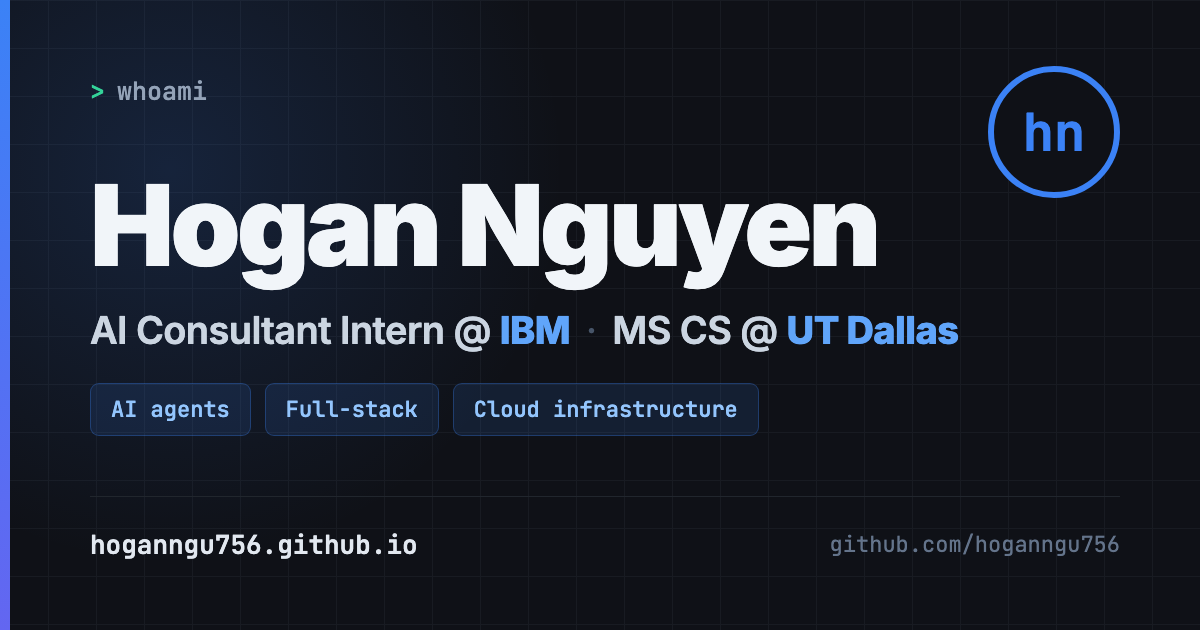
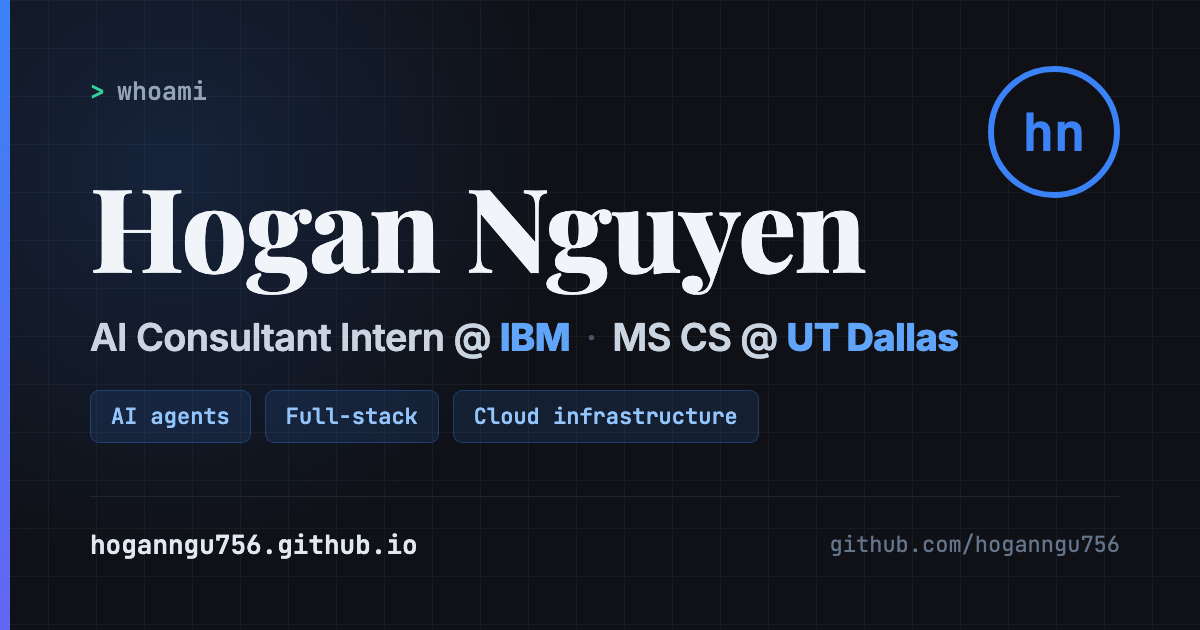
changed font + font size

Changed region(s): [[0.0617, 0.2714, 0.8017, 0.573], [0.0617, 0.6032, 0.6475, 0.7238]]

diff --git a/src/components/Experience.js b/src/components/Experience.js
@@ -16,7 +16,7 @@ const Experience = () => (
         <Reveal key={`${exp.company}-${exp.title}`} delay={idx * 120}>
           <div className="group p-6 rounded-xl bg-lightCard dark:bg-darkCard border border-lightBorder dark:border-darkBorder border-l-4 border-l-blue-500 hover:border-slate-300 dark:hover:border-slate-700 transition-all duration-300 hover:shadow-lg dark:hover:shadow-blue-900/10">
             <div className="flex flex-col sm:flex-row sm:items-center justify-between gap-1 mb-2">
-              <h3 className="text-base font-bold text-slate-900 dark:text-slate-100 group-hover:text-blue-600 dark:group-hover:text-blue-400 transition-colors">
+              <h3 className="font-display text-lg font-bold text-slate-900 dark:text-slate-100 group-hover:text-blue-600 dark:group-hover:text-blue-400 transition-colors">
                 {exp.title}
               </h3>
               <span className="font-mono text-xs font-medium text-slate-500 dark:text-slate-400 bg-slate-100 dark:bg-slate-800/80 px-2.5 py-1 rounded-md self-start sm:self-auto">
@@ -24,7 +24,7 @@ const Experience = () => (
               </span>
             </div>
 
-            <p className="text-xs sm:text-sm font-semibold text-slate-700 dark:text-slate-300 mb-4">
+            <p className="text-sm font-semibold text-slate-700 dark:text-slate-300 mb-4">
               {exp.company}{' '}
               <span className="font-normal text-slate-500 dark:text-slate-400">· {exp.location}</span>
             </p>
@@ -33,10 +33,10 @@ const Experience = () => (
               {exp.bullets.map((bullet, i) => (
                 <li
                   key={i}
-                  className="text-xs sm:text-sm text-slate-600 dark:text-slate-400 leading-relaxed flex items-start gap-2.5"
+                  className="text-sm sm:text-base text-slate-600 dark:text-slate-400 leading-relaxed flex items-start gap-2.5"
                 >
                   <span
-                    className="text-blue-500 dark:text-blue-400 mt-1 flex-shrink-0 text-xs"
+                    className="text-blue-500 dark:text-blue-400 mt-1 flex-shrink-0 text-sm"
                     aria-hidden="true"
                   >
                     ▹
@@ -64,12 +64,14 @@ const Experience = () => (
           <Reveal key={edu.degree} delay={idx * 100}>
             <div className="h-full p-5 rounded-xl bg-lightCard dark:bg-darkCard border border-lightBorder dark:border-darkBorder hover:border-blue-500/50 transition-colors">
               <div className="flex justify-between items-start mb-1 gap-2">
-                <p className="text-sm font-bold text-slate-900 dark:text-slate-100">{edu.degree}</p>
+                <p className="font-display text-base font-bold text-slate-900 dark:text-slate-100">
+                  {edu.degree}
+                </p>
                 <span className="font-mono text-xs text-slate-500 dark:text-slate-400 flex-shrink-0">
                   {edu.period}
                 </span>
               </div>
-              <p className="text-xs text-slate-600 dark:text-slate-400">
+              <p className="text-sm text-slate-600 dark:text-slate-400">
                 {edu.school} · {edu.location}
               </p>
             </div>

diff --git a/src/components/Projects.js b/src/components/Projects.js
@@ -148,7 +148,7 @@ const Projects = ({ selectedSkill, setSelectedSkill }) => {
                 <div>
                   {/* Title & Links */}
                   <div className="flex items-start justify-between gap-3 mb-3">
-                    <h3 className="text-base font-bold text-slate-900 dark:text-slate-100 group-hover:text-blue-600 dark:group-hover:text-blue-400 transition-colors">
+                    <h3 className="font-display text-lg font-bold text-slate-900 dark:text-slate-100 group-hover:text-blue-600 dark:group-hover:text-blue-400 transition-colors">
                       {project.title}
                     </h3>
 
@@ -192,7 +192,7 @@ const Projects = ({ selectedSkill, setSelectedSkill }) => {
                     {project.category}
                   </span>
 
-                  <p className="text-xs text-slate-600 dark:text-slate-400 leading-relaxed mb-6">
+                  <p className="text-sm text-slate-600 dark:text-slate-400 leading-relaxed mb-6">
                     {project.description}
                   </p>
                 </div>
@@ -254,7 +254,7 @@ const Projects = ({ selectedSkill, setSelectedSkill }) => {
 
             <h3
               id="project-modal-title"
-              className="text-xl font-bold text-slate-900 dark:text-slate-100 mt-3 mb-3"
+              className="font-display text-2xl font-bold text-slate-900 dark:text-slate-100 mt-3 mb-3"
             >
               {selectedProject.title}
             </h3>
@@ -263,7 +263,7 @@ const Projects = ({ selectedSkill, setSelectedSkill }) => {
               {selectedProject.bullets.map((b, idx) => (
                 <p
                   key={idx}
-                  className="text-xs sm:text-sm text-slate-600 dark:text-slate-300 leading-relaxed flex items-start gap-2"
+                  className="text-sm sm:text-base text-slate-600 dark:text-slate-300 leading-relaxed flex items-start gap-2"
                 >
                   <span className="text-blue-500 mt-1" aria-hidden="true">
                     ▹

diff --git a/index.html b/index.html
@@ -42,7 +42,7 @@
     <link rel="preconnect" href="https://fonts.googleapis.com" />
     <link rel="preconnect" href="https://fonts.gstatic.com" crossorigin />
     <link
-      href="https://fonts.googleapis.com/css2?family=Inter:wght@300;400;500;600;700;800;900&family=JetBrains+Mono:wght@400;500;600&display=swap"
+      href="https://fonts.googleapis.com/css2?family=Inter:wght@300;400;500;600;700;800;900&family=JetBrains+Mono:wght@400;500;600&family=Playfair+Display:wght@700;800;900&display=swap"
       rel="stylesheet"
     />
     <title>Hogan Nguyen — Software Engineer</title>

diff --git a/src/components/Hero.js b/src/components/Hero.js
@@ -29,7 +29,7 @@ const Hero = ({ onCopyEmail }) => {
           </p>
 
           <h1
-            className="text-4xl sm:text-5xl md:text-6xl font-extrabold text-slate-900 dark:text-slate-100 tracking-tight leading-none mb-4 animate-fade-in"
+            className="font-display text-4xl sm:text-5xl md:text-6xl font-extrabold text-slate-900 dark:text-slate-100 leading-tight mb-4 animate-fade-in"
             style={{ animationDelay: '100ms', animationFillMode: 'backwards' }}
           >
             {profile.name}

diff --git a/src/App.js b/src/App.js
@@ -77,7 +77,7 @@ function MainContent() {
           </Reveal>
 
           <Reveal delay={60}>
-            <p className="text-xs text-slate-500 dark:text-slate-400 mb-6 italic">
+            <p className="text-sm text-slate-500 dark:text-slate-400 mb-6 italic">
               Prefer a shell? Click in and run <code className="font-mono not-italic">help</code>.
             </p>
           </Reveal>

diff --git a/src/components/Skills.js b/src/components/Skills.js
@@ -24,7 +24,7 @@ const Skills = ({ selectedSkill, setSelectedSkill }) => {
       </Reveal>
 
       <Reveal delay={60}>
-        <p className="text-xs text-slate-500 dark:text-slate-400 mb-8 italic">
+        <p className="text-sm text-slate-500 dark:text-slate-400 mb-8 italic">
           Tip: Click any skill tag to view related projects using that technology.
         </p>
       </Reveal>

diff --git a/tailwind.config.js b/tailwind.config.js
@@ -10,6 +10,8 @@ export default {
       fontFamily: {
         sans: ['Inter', '-apple-system', 'BlinkMacSystemFont', 'sans-serif'],
         mono: ['"JetBrains Mono"', 'monospace'],
+        // Display serif for headings only — body copy stays on Inter.
+        display: ['"Playfair Display"', 'Georgia', 'serif'],
       },
       colors: {
         darkBg: '#0f1117',
